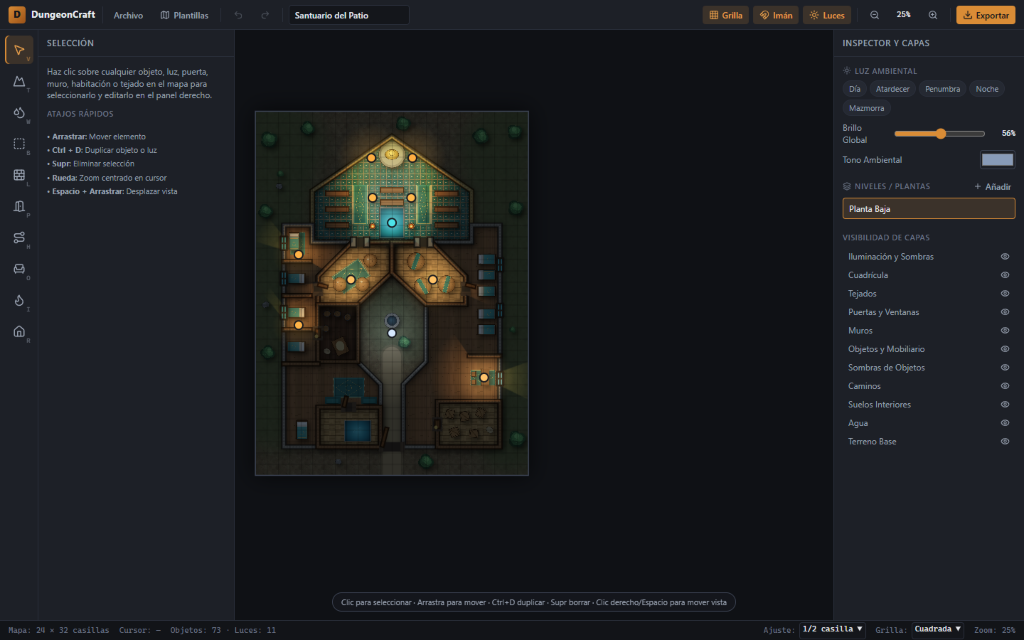
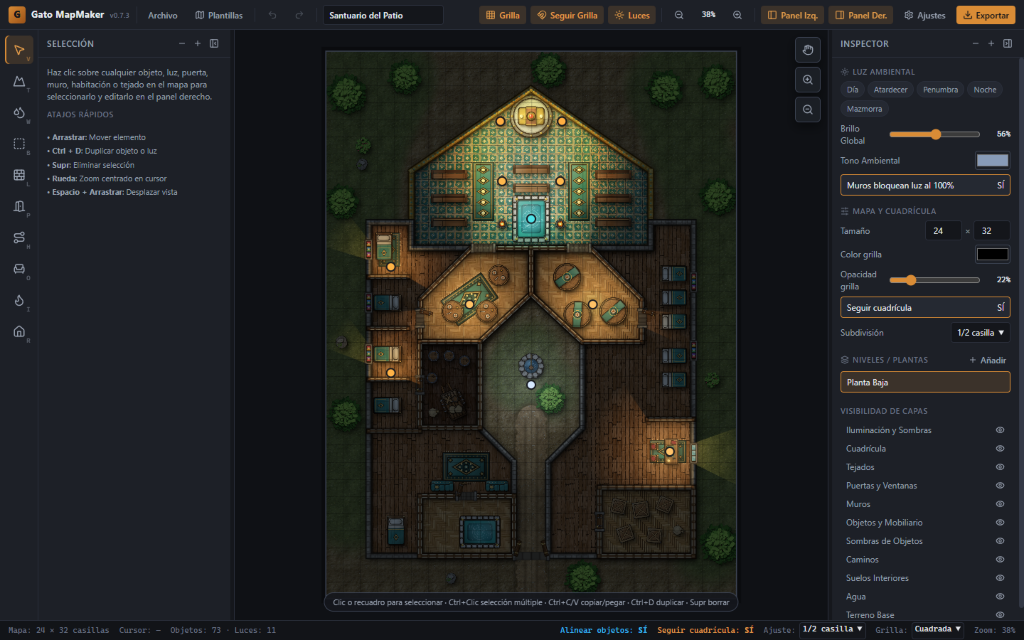
docs: refresh README screenshots for v0.7.3

diff --git a/README.md b/README.md
@@ -10,8 +10,6 @@ Editor de mapas tácticos para juegos de rol de mesa (D&D, Pathfinder, etc.) ins
 
 ## Capturas de pantalla
 
-> Las capturas son de una versión anterior: las texturas actuales son distintas.
-
 ### Santuario del Patio (Templo e iluminación con sombras)
 ![Editor Gato MapMaker con el mapa Santuario del Patio](docs/images/sanctuary-editor.png)
 
